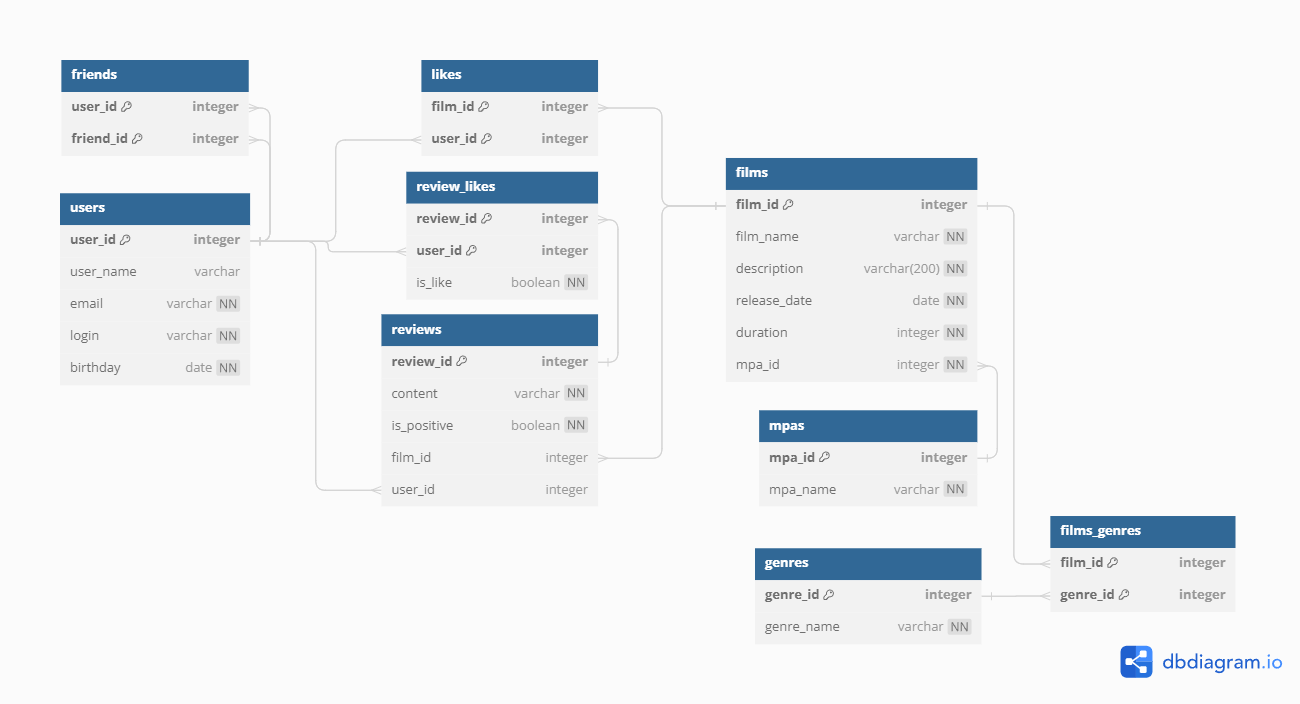
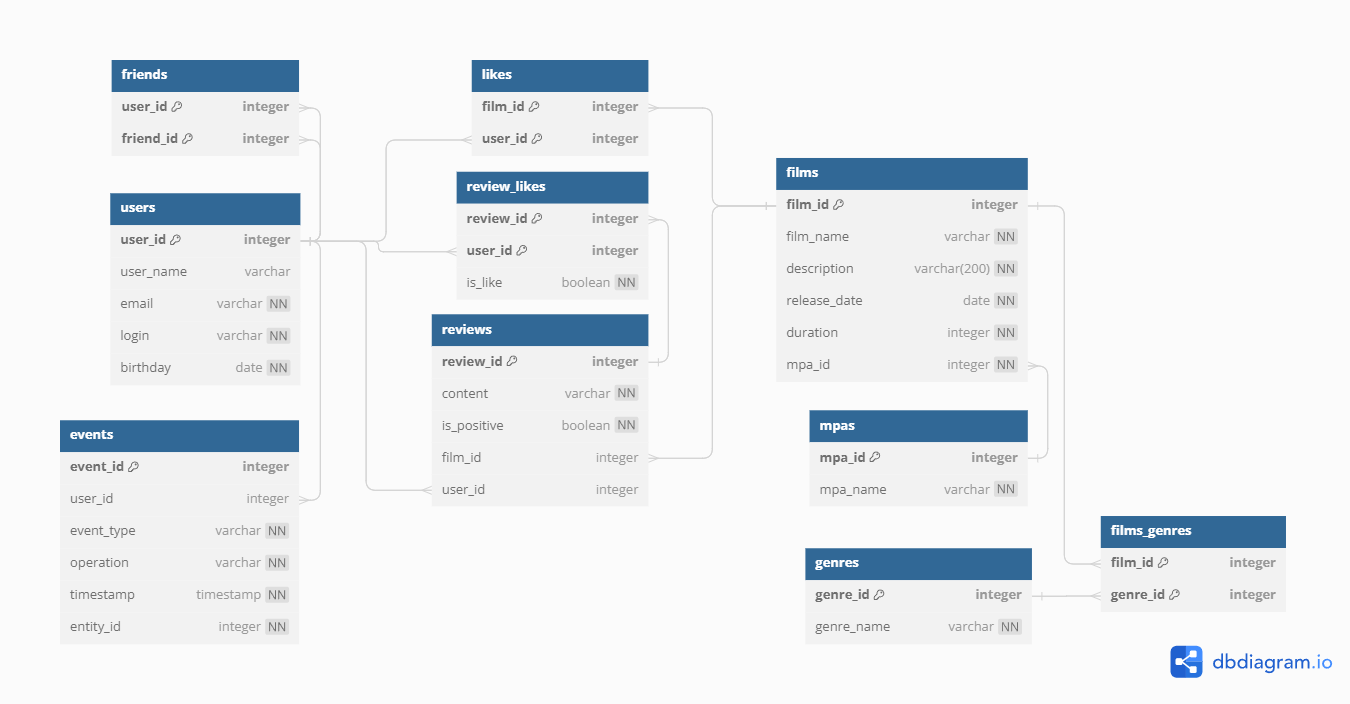
feat: events = users activities log accessible via http-requests

diff --git a/src/main/java/ru/yandex/practicum/filmorate/service/ReviewService.java b/src/main/java/ru/yandex/practicum/filmorate/service/ReviewService.java
@@ -5,10 +5,9 @@ import org.springframework.beans.factory.annotation.Qualifier;
 import org.springframework.stereotype.Service;
 import ru.yandex.practicum.filmorate.dao.*;
 import ru.yandex.practicum.filmorate.exception.NotFoundException;
-import ru.yandex.practicum.filmorate.model.Film;
-import ru.yandex.practicum.filmorate.model.Review;
-import ru.yandex.practicum.filmorate.model.User;
+import ru.yandex.practicum.filmorate.model.*;
 
+import java.time.Instant;
 import java.util.List;
 
 @Service
@@ -18,6 +17,7 @@ public class ReviewService {
     UserDao userDao;
     GenreDao genreDao;
     MpaDao mpaDao;
+    EventDao eventDao;
     ValidateService validateService;
 
     @Autowired
@@ -26,12 +26,14 @@ public class ReviewService {
                          @Qualifier("userDaoImpl") UserDao userDao,
                          @Qualifier("genreDaoImpl") GenreDao genreDao,
                          @Qualifier("mpaDaoImpl") MpaDao mpaDao,
+                         @Qualifier("eventDaoImpl") EventDao eventDao,
                          ValidateService validateService) {
         this.reviewDao = reviewDao;
         this.filmDao = filmDao;
         this.userDao = userDao;
         this.genreDao = genreDao;
         this.mpaDao = mpaDao;
+        this.eventDao = eventDao;
         this.validateService = validateService;
     }
 
@@ -43,7 +45,19 @@ public class ReviewService {
                 .orElseThrow(() -> new NotFoundException("Film not found by id: " + filmId));
         User user = userDao.getById(userId)
                 .orElseThrow(() -> new NotFoundException("User not found by id: " + userId));
-        return reviewDao.create(review);
+
+        Review reviewToReturn = reviewDao.create(review);
+
+        Event event = Event.builder()
+                .timestamp(Instant.now().toEpochMilli())
+                .userId(userId)
+                .eventType(EventType.REVIEW)
+                .operation(EventOperation.ADD)
+                .entityId(review.getReviewId())
+                .build();
+        eventDao.create(event);
+
+        return reviewToReturn;
     }
 
     public Review updateReview(Review review) {
@@ -54,9 +68,18 @@ public class ReviewService {
                 .orElseThrow(() -> new NotFoundException("Review not found by id: " + reviewId));
 
         reviewDao.update(review);
-
         reviewToReturn.setContent(review.getContent());
         reviewToReturn.setIsPositive(review.getIsPositive());
+
+        Event event = Event.builder()
+                .timestamp(Instant.now().toEpochMilli())
+                .userId(reviewToReturn.getUserId())
+                .eventType(EventType.REVIEW)
+                .operation(EventOperation.UPDATE)
+                .entityId(reviewId)
+                .build();
+        eventDao.create(event);
+
         return reviewToReturn;
     }
 
@@ -105,5 +128,14 @@ public class ReviewService {
                 .orElseThrow(() -> new NotFoundException("Film not found by id: " + reviewId));
 
         reviewDao.deleteById(reviewId);
+
+        Event event = Event.builder()
+                .timestamp(Instant.now().toEpochMilli())
+                .userId(review.getUserId())
+                .eventType(EventType.REVIEW)
+                .operation(EventOperation.REMOVE)
+                .entityId(reviewId)
+                .build();
+        eventDao.create(event);
     }
 }

diff --git a/src/main/java/ru/yandex/practicum/filmorate/service/UserService.java b/src/main/java/ru/yandex/practicum/filmorate/service/UserService.java
@@ -11,7 +11,6 @@ import ru.yandex.practicum.filmorate.model.EventOperation;
 import ru.yandex.practicum.filmorate.model.EventType;
 import ru.yandex.practicum.filmorate.model.User;
 
-import java.sql.Timestamp;
 import java.time.Instant;
 import java.util.List;
 
@@ -68,6 +67,8 @@ public class UserService {
         User friend = userDao.getById(friendId)
                 .orElseThrow(() -> new NotFoundException("User not found by id: " + friendId));
 
+        userDao.addFriend(user, friend);
+
         Event event = Event.builder()
                 .timestamp(Instant.now().toEpochMilli())
                 .userId(userId)
@@ -76,8 +77,6 @@ public class UserService {
                 .entityId(friendId)
                 .build();
         eventDao.create(event);
-
-        userDao.addFriend(user, friend);
     }
 
     public void deleteFriend(int userId, int friendId) {
@@ -85,6 +84,8 @@ public class UserService {
                 .orElseThrow(() -> new NotFoundException("User not found by id: " + userId));
         User friend = userDao.getById(friendId)
                 .orElseThrow(() -> new NotFoundException("User not found by id: " + friendId));
+
+        userDao.deleteFriend(user, friend);
 
         Event event = Event.builder()
                 .timestamp(Instant.now().toEpochMilli())
@@ -94,8 +95,6 @@ public class UserService {
                 .entityId(friendId)
                 .build();
         eventDao.create(event);
-
-        userDao.deleteFriend(user, friend);
     }
 
     public List<User> getFriendsByUserId(int userId) {

diff --git a/src/main/java/ru/yandex/practicum/filmorate/service/FilmService.java b/src/main/java/ru/yandex/practicum/filmorate/service/FilmService.java
@@ -7,7 +7,6 @@ import ru.yandex.practicum.filmorate.dao.*;
 import ru.yandex.practicum.filmorate.exception.NotFoundException;
 import ru.yandex.practicum.filmorate.model.*;
 
-import java.sql.Timestamp;
 import java.time.Instant;
 import java.util.List;
 import java.util.Set;
@@ -85,6 +84,8 @@ public class FilmService {
         User user = userDao.getById(userId)
                 .orElseThrow(() -> new NotFoundException("User not found by id: " + userId));
 
+        filmDao.addLike(film, user);
+
         Event event = Event.builder()
                 .timestamp(Instant.now().toEpochMilli())
                 .userId(userId)
@@ -93,8 +94,6 @@ public class FilmService {
                 .entityId(filmId)
                 .build();
         eventDao.create(event);
-
-        filmDao.addLike(film, user);
     }
 
     public void deleteLike(int filmId, int userId) {
@@ -102,6 +101,8 @@ public class FilmService {
                 .orElseThrow(() -> new NotFoundException("Film not found by id: " + filmId));
         User user = userDao.getById(userId)
                 .orElseThrow(() -> new NotFoundException("User not found by id: " + userId));
+
+        filmDao.deleteLike(film, user);
 
         Event event = Event.builder()
                 .timestamp(Instant.now().toEpochMilli())
@@ -111,8 +112,6 @@ public class FilmService {
                 .entityId(filmId)
                 .build();
         eventDao.create(event);
-
-        filmDao.deleteLike(film, user);
     }
 
     public List<Film> getAllFilms() {

diff --git a/src/main/java/ru/yandex/practicum/filmorate/dao/mapper/EventRowMapper.java b/src/main/java/ru/yandex/practicum/filmorate/dao/mapper/EventRowMapper.java
@@ -4,11 +4,9 @@ import org.springframework.jdbc.core.RowMapper;
 import ru.yandex.practicum.filmorate.model.Event;
 import ru.yandex.practicum.filmorate.model.EventOperation;
 import ru.yandex.practicum.filmorate.model.EventType;
-import ru.yandex.practicum.filmorate.model.User;
 
 import java.sql.ResultSet;
 import java.sql.SQLException;
-import java.time.Instant;
 
 public class EventRowMapper implements RowMapper<Event> {
     @Override
@@ -18,17 +16,8 @@ public class EventRowMapper implements RowMapper<Event> {
                 .timestamp((rs.getLong("timestamp")))
                 .userId(rs.getInt("user_id"))
                 .eventType(EventType.valueOf(rs.getString("event_type")))
-                // .eventType(rs.getObject("event_type", EventType.class))
                 .operation(EventOperation.valueOf(rs.getString("operation")))
-                // .eventOperation(rs.getObject("operation", EventOperation.class))
                 .entityId(rs.getInt("entity_id"))
                 .build();
     }
 }
-/*
-  event_id integer GENERATED BY DEFAULT AS IDENTITY PRIMARY KEY,
-  user_id integer REFERENCES users (user_id) ON DELETE CASCADE,
-  event_type varchar NOT NULL,
-  operation varchar NOT NULL,
-  timestamp timestamp NOT NULL,
-  entity_id integer NOT NULL*/

diff --git a/src/main/java/ru/yandex/practicum/filmorate/dao/daoImpl/EventDaoImpl.java b/src/main/java/ru/yandex/practicum/filmorate/dao/daoImpl/EventDaoImpl.java
@@ -5,8 +5,6 @@ import org.springframework.jdbc.core.namedparam.MapSqlParameterSource;
 import org.springframework.jdbc.core.namedparam.NamedParameterJdbcOperations;
 import org.springframework.jdbc.core.namedparam.NamedParameterJdbcTemplate;
 import org.springframework.jdbc.core.namedparam.SqlParameterSource;
-import org.springframework.jdbc.support.GeneratedKeyHolder;
-import org.springframework.jdbc.support.KeyHolder;
 import org.springframework.stereotype.Component;
 import ru.yandex.practicum.filmorate.dao.EventDao;
 import ru.yandex.practicum.filmorate.model.Event;

diff --git a/src/main/java/ru/yandex/practicum/filmorate/model/Event.java b/src/main/java/ru/yandex/practicum/filmorate/model/Event.java
@@ -1,15 +1,8 @@
 package ru.yandex.practicum.filmorate.model;
 
-import com.fasterxml.jackson.annotation.JsonFormat;
 import lombok.*;
 
-import javax.validation.constraints.Email;
-import javax.validation.constraints.NotBlank;
 import javax.validation.constraints.NotNull;
-import javax.validation.constraints.Past;
-import java.sql.Timestamp;
-import java.time.Instant;
-import java.time.LocalDate;
 
 @AllArgsConstructor
 @NoArgsConstructor
